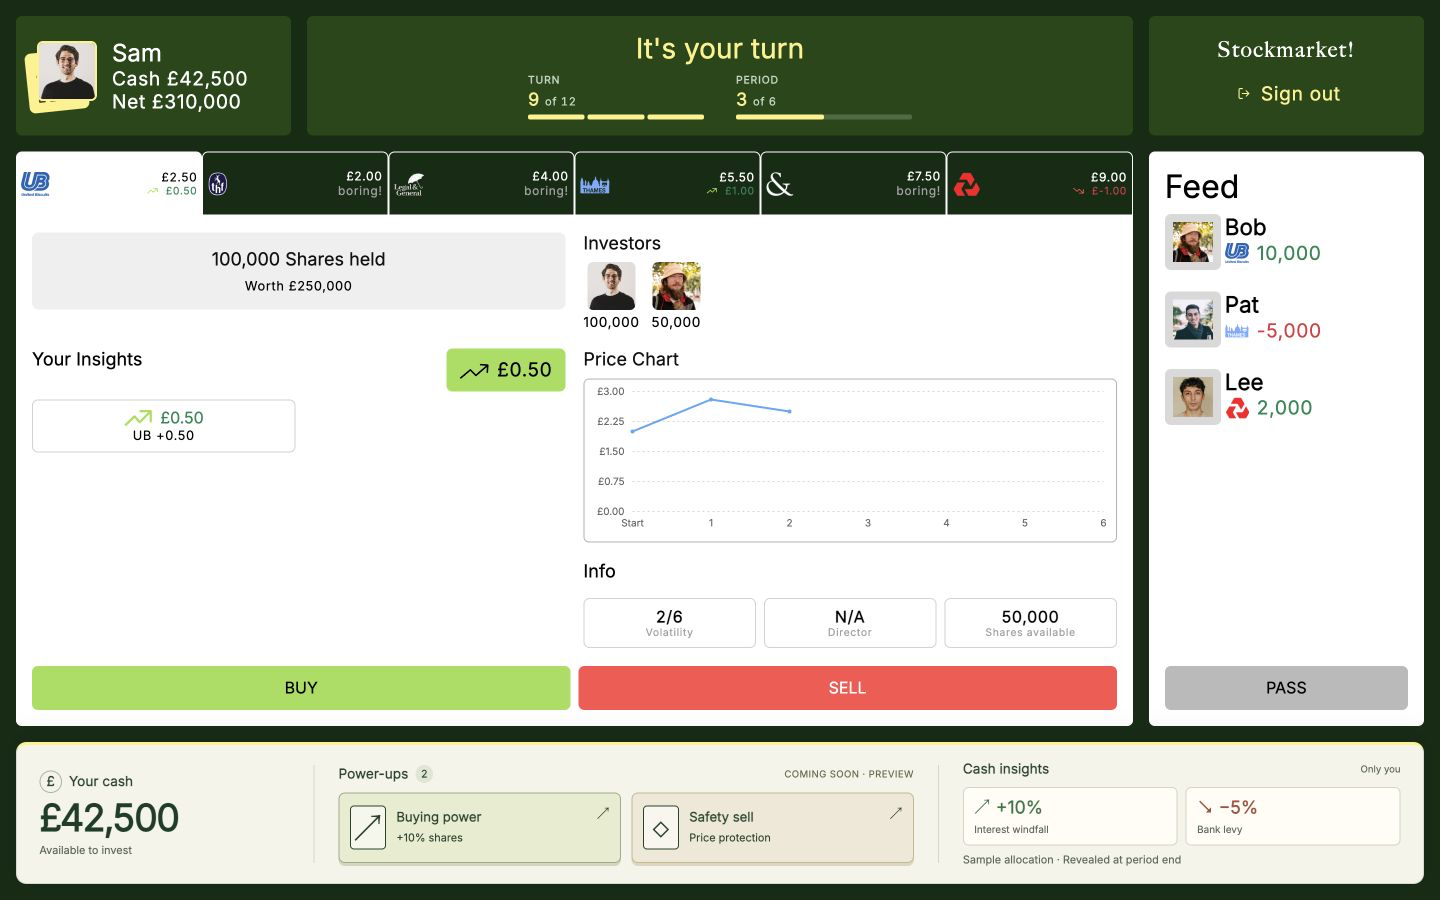
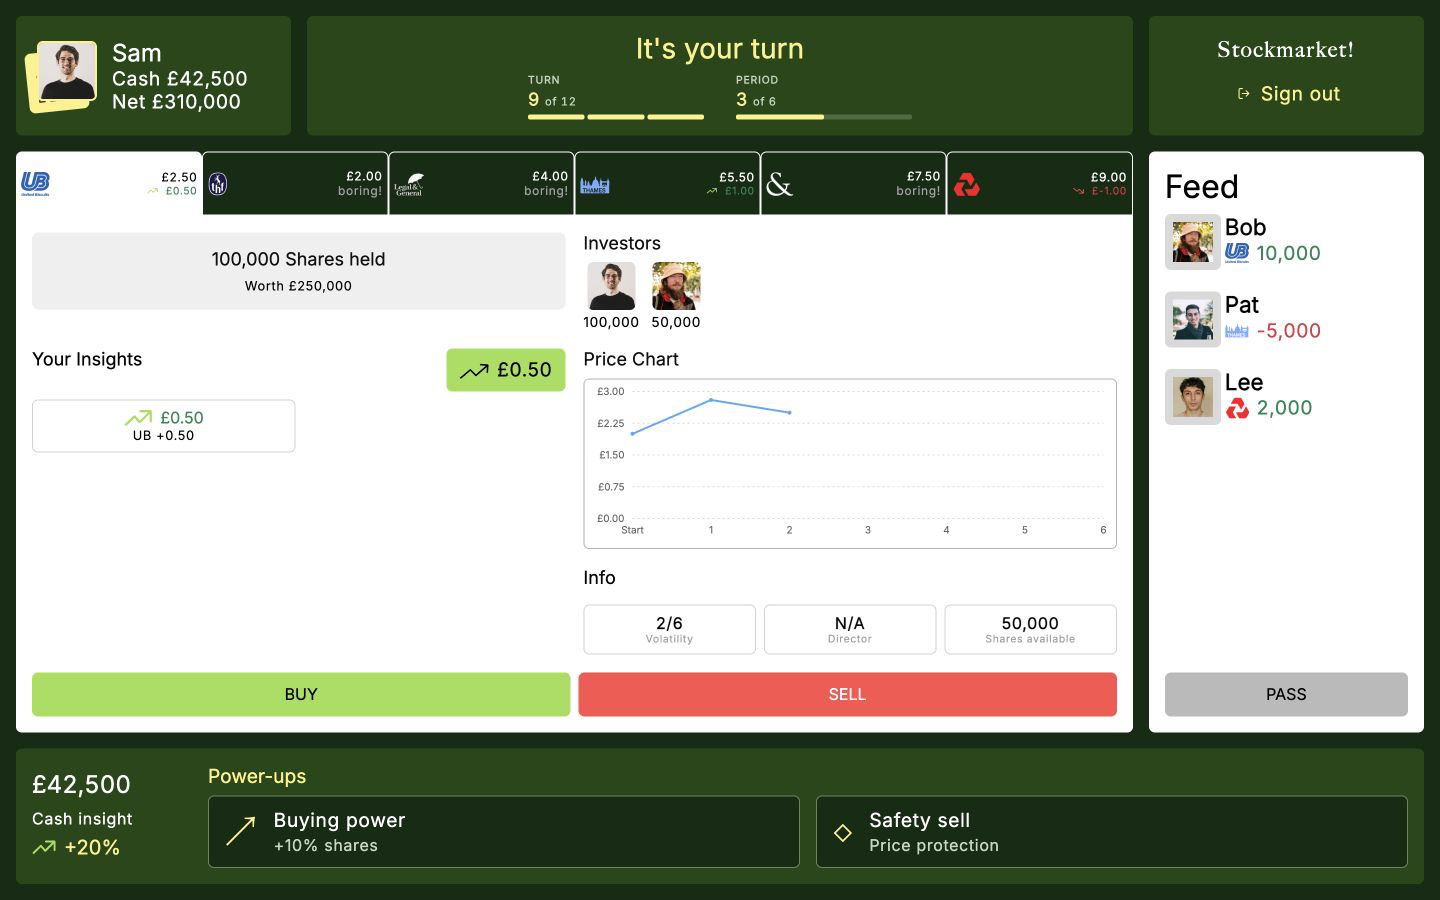
Match the player dock to the board theme and simplify cash insights

Changed region(s): [[0.0, 0.6533, 1.0, 0.9956], [0.4062, 0.4667, 0.7812, 0.6533], [0.4688, 0.4356, 0.5312, 0.4667]]

diff --git a/src/player-dock.css b/src/player-dock.css
@@ -1,5 +1,4 @@
-/* Reserve the last grid row so the dock stays at the viewport edge without
-   covering stock details, trade controls, or the desktop activity feed. */
+/* Reserve a bottom row so the dock never covers the board's trade controls. */
 #game-grid:has(> #player-dock) {
     grid-template-rows: auto minmax(0, 1fr) auto;
     grid-template-areas: "profile now-playing header" "content content feed" "dock dock dock";
@@ -7,93 +6,53 @@
 #player-dock {
     grid-area: dock;
     display: grid;
-    grid-template-columns: minmax(165px, 0.8fr) minmax(340px, 2fr) minmax(260px, 1.4fr);
+    grid-template-columns: 10rem minmax(0, 1fr);
     align-items: center;
-    gap: 1.5rem;
-    padding: 1rem 1.4rem;
-    border: 1px solid #d5dbc6;
-    border-top: 3px solid #fff284;
-    border-radius: 0.65rem;
-    background: #f5f4e9;
-    color: #183e25;
-    box-shadow: 0 -5px 24px #081c1026;
+    gap: 1rem;
+    color: white;
 }
 #player-dock > * { min-width: 0; }
-#player-dock span, #player-dock p { font-size: inherit; line-height: inherit; letter-spacing: normal; }
-#player-dock .dock-eyebrow, #player-dock .dock-section-heading h2 {
-    display: flex;
-    align-items: center;
-    gap: 0.45rem;
-    margin: 0;
-    color: #24432b;
-    font-size: 0.85rem;
-    font-weight: 600;
-}
-.dock-cash-symbol { display: grid; place-items: center; width: 1.4rem; height: 1.4rem; border: 1px solid #a9b69b; border-radius: 50%; }
-.dock-balance { display: block; margin: 0.2rem 0; font-size: clamp(1.7rem, 2.6vw, 2.5rem); line-height: 1.15; letter-spacing: -0.06em; font-variant-numeric: tabular-nums; }
-#player-dock .dock-caption { margin: 0; color: #5c6957; font-size: 0.68rem; line-height: 1.4; }
-.dock-powers { padding-inline: 1.5rem; border-inline: 1px solid #d2d8c5; }
-.dock-section-heading { display: flex; align-items: center; justify-content: space-between; gap: 0.4rem; margin-bottom: 0.6rem; }
-#player-dock .dock-count { display: grid; place-items: center; width: 1.1rem; height: 1.1rem; background: #dfe6d4; border-radius: 50%; font-size: 0.65rem; }
-#player-dock .dock-preview, .dock-power-detail .dock-preview { color: #626b49; font-size: 0.6rem; letter-spacing: 0.04em; text-transform: uppercase; }
-.dock-power-cards { display: grid; grid-template-columns: repeat(2, minmax(0, 1fr)); gap: 0.65rem; }
-.dock-power-card { display: flex; align-items: center; text-align: left; gap: 0.65rem; min-height: 4.4rem; padding: 0.65rem; border: 1px solid #9dab87; border-radius: 0.4rem; background: #e7eccd; color: #24432b; box-shadow: 0 3px 0 #d0d7ba; transition: transform 150ms, background 150ms; }
-.dock-power-sell { background: #eee8d5; border-color: #c4b88f; box-shadow: 0 3px 0 #ded6bd; }
-.dock-power-card:hover { transform: translateY(-2px); background: #f7f0b1; }
-.dock-power-card:focus-visible { outline: 3px solid #38643d; outline-offset: 3px; }
-#player-dock .dock-power-icon { display: grid; place-items: center; flex-shrink: 0; width: 2.25rem; height: 2.75rem; border: 1px solid currentColor; border-radius: 0.25rem; font-size: 1.8rem; background: #fff9; }
-.dock-power-copy { display: flex; flex: 1; flex-direction: column; gap: 0.3rem; }
-.dock-power-copy strong { font-size: 0.82rem; line-height: 1.2; }
-#player-dock .dock-power-copy > span { font-size: 0.68rem; }
-#player-dock .dock-card-arrow { align-self: flex-start; font-size: 0.8rem; }
-#player-dock .dock-private { color: #5c6957; font-size: 0.6rem; }
-.dock-insight-cards { display: grid; grid-template-columns: repeat(2, minmax(0, 1fr)); gap: 0.5rem; margin-bottom: 0.4rem; }
-.dock-cash-insight { display: grid; grid-template-columns: auto 1fr; align-items: center; column-gap: 0.35rem; row-gap: 0.2rem; padding: 0.45rem 0.65rem; border: 1px solid #ced6c0; border-radius: 0.35rem; background: #fffdf5; }
-.dock-cash-insight strong { font-size: 1.1rem; line-height: 1; }
-#player-dock .dock-cash-insight > span:last-child { grid-column: 1 / -1; font-size: 0.62rem; color: #5c6957; }
-.dock-insight-up { color: #347346; }
-.dock-insight-down { color: #a3523d; }
+#player-dock .dock-balance { display: block; margin-bottom: 0.5rem; font-size: 1.5rem; font-weight: 500; line-height: 1.2; font-variant-numeric: tabular-nums; }
+.dock-cash-insight { display: inline-flex; flex-direction: column; gap: 0.25rem; }
+#player-dock .dock-cash-insight > span { font-size: 1rem; }
+.dock-cash-insight strong { display: flex; align-items: center; gap: 0.5rem; font-size: 1.25rem; font-weight: 500; color: #fff284; }
+.dock-cash-insight img { width: 1.5rem; height: 1rem; object-fit: contain; }
+#player-dock .dock-powers h2 { margin: 0 0 0.5rem; font-size: 1.2rem; font-weight: 500; color: #fff284; }
+.dock-power-cards { display: grid; grid-template-columns: repeat(2, minmax(0, 1fr)); gap: 1rem; }
+.dock-power-card { display: flex; align-items: center; gap: 1rem; min-height: 4.5rem; padding: 0.75rem 1rem; border: 1px solid #70845b; border-radius: 0.375rem; background: #0f2c12; color: white; text-align: left; }
+.dock-power-card:hover { background: #304f24; border-color: #fff284; }
+.dock-power-card:focus-visible { outline: 2px solid #fff284; outline-offset: 3px; }
+#player-dock .dock-power-icon { flex-shrink: 0; color: #fff284; font-size: 2rem; line-height: 1; }
+.dock-power-copy { display: flex; flex-direction: column; gap: 0.25rem; }
+.dock-power-copy strong { font-size: 1.2rem; font-weight: 500; line-height: 1.2; }
+#player-dock .dock-power-copy > span { font-size: 1rem; color: #c6d7c3; }
 .dock-power-detail { display: grid; gap: 1rem; }
 .dock-power-detail h3 { color: inherit; margin: 0; }
+.dock-power-detail .dock-preview, .dock-power-detail .dock-caption { font-size: 1rem; }
 @media (max-width: 991.98px) {
     #game-grid:has(> #player-dock) { grid-template-areas: "profile now-playing" "content content" "dock dock"; }
-    #player-dock { grid-template-columns: minmax(110px, 0.8fr) minmax(0, 1.5fr); gap: 0.65rem 1rem; padding: 0.7rem 0.85rem max(0.7rem, env(safe-area-inset-bottom)); }
-    .dock-cash { grid-column: 1; grid-row: 1; }
-    .dock-insights { grid-column: 2; grid-row: 1; }
-    .dock-powers { grid-column: 1 / -1; grid-row: 2; border: 0; border-top: 1px solid #d2d8c5; padding: 0.6rem 0 0; }
-    .dock-balance { font-size: 1.8rem; }
-    .dock-section-heading { margin-bottom: 0.35rem; }
-    .dock-power-card { min-height: 3.25rem; padding: 0.45rem 0.55rem; gap: 0.5rem; }
-    #player-dock .dock-power-icon { width: 1.7rem; height: 2.1rem; font-size: 1.4rem; }
-    .dock-power-copy { gap: 0.15rem; }
-    .dock-power-copy strong { font-size: 0.75rem; }
-    #player-dock .dock-power-copy > span { font-size: 0.6rem; }
-    .dock-cash-insight { padding: 0.3rem 0.4rem; gap: 0.2rem; }
-    .dock-cash-insight strong { font-size: 0.95rem; }
-    #player-dock .dock-cash-insight > span:last-child { font-size: 0.54rem; }
-    #player-dock .dock-caption { font-size: 0.56rem; }
-    #player-dock .dock-eyebrow, #player-dock .dock-section-heading h2 { font-size: 0.73rem; }
 }
-@media (max-height: 500px) and (max-width: 991.98px) {
-    #player-dock { grid-template-columns: 0.7fr 1.5fr 1fr; gap: 0.75rem; padding: 0.5rem 0.75rem; }
-    .dock-powers, .dock-insights, .dock-cash { grid-column: auto; grid-row: auto; }
-    .dock-powers { border: 0; padding: 0; }
-    #player-dock .dock-preview, #player-dock .dock-private, #player-dock .dock-cash-insight > span:last-child { display: none; }
+@media (max-width: 575.98px) {
+    #player-dock { grid-template-columns: 6.75rem minmax(0, 1fr); gap: 0.75rem; padding: 0.75rem !important; padding-bottom: max(0.75rem, env(safe-area-inset-bottom)) !important; }
+    #player-dock .dock-balance { font-size: 1.25rem; }
+    #player-dock .dock-cash-insight > span { font-size: 0.9rem; }
+    .dock-cash-insight strong { font-size: 1.1rem; }
+    #player-dock .dock-powers h2 { font-size: 1rem; }
+    .dock-power-cards { gap: 0.5rem; }
+    .dock-power-card { flex-direction: column; justify-content: center; gap: 0.4rem; padding: 0.5rem 0.35rem; min-height: 5rem; text-align: center; }
+    #player-dock .dock-power-icon { font-size: 1.5rem; }
+    .dock-power-copy strong { font-size: 1rem; }
+    #player-dock .dock-power-copy > span { display: none; }
 }
-@media (max-width: 359px) {
-    #player-dock { grid-template-columns: minmax(100px, 0.85fr) minmax(0, 1.3fr); gap: 0.5rem; padding: 0.6rem; }
-    .dock-balance { font-size: 1.5rem; }
-    .dock-power-cards { gap: 0.45rem; }
-    .dock-power-card { gap: 0.35rem; padding: 0.4rem; }
-    #player-dock .dock-power-icon { width: 1.4rem; height: 1.8rem; font-size: 1.1rem; }
-    #player-dock .dock-card-arrow { display: none; }
-    .dock-power-copy strong { font-size: 0.68rem; }
-    #player-dock .dock-power-copy > span { font-size: 0.55rem; }
-    #player-dock .dock-cash-insight > span:last-child { font-size: 0.5rem; }
-    #player-dock .dock-insights > .dock-caption { font-size: 0.5rem; }
-    #player-dock .dock-preview { font-size: 0.5rem; }
+@media (max-height: 500px) {
+    #player-dock { padding: 0.5rem 0.75rem !important; }
+    #player-dock .dock-balance { margin-bottom: 0.25rem; }
+    .dock-cash-insight { flex-direction: row; align-items: center; gap: 0.5rem; }
+    #player-dock .dock-cash-insight > span { font-size: 0.85rem; }
+    .dock-cash-insight strong { font-size: 1rem; }
+    .dock-power-card { min-height: 3rem; padding-block: 0.4rem; }
 }
-/* The board owns viewport scrolling; stock/portfolio panels own detail scrolling. */
+/* Details scroll within the middle panel while the dock remains in view. */
 body:has(#player-dock) { overflow: hidden; }
 @media (max-height: 650px) {
     #game-grid:has(> #player-dock) #game-stock-info { grid-template-rows: minmax(0, 1fr) auto; grid-template-areas: "body body" "actions actions"; }

diff --git a/src/PlayerDock.tsx b/src/PlayerDock.tsx
@@ -11,27 +11,23 @@ const powerUps = [
 export function PlayerDock({ board }: { board: Board })
 {
     return (
-        <section id="player-dock" aria-label="Your cash, power-ups and cash insights">
+        <section id="player-dock" className="card card-green rounded p-3" style={{ backgroundColor: "var(--bs-card-bg)" }} aria-label="Your cash, power-ups and cash insights">
             <div className="dock-cash">
-                <div className="dock-eyebrow">
-                    <span className="dock-cash-symbol" aria-hidden="true">£</span>
-                    {" "}
-                    Your cash
-                </div>
                 <strong className="dock-balance">
                     £
                     {money(board.player.cash)}
                 </strong>
-                <p className="dock-caption">Available to invest</p>
+                <div className="dock-cash-insight">
+                    <span>Cash insight</span>
+                    <strong>
+                        <img src="/static/imgs/icons/stock_up.svg" alt="Cash rising" />
+                        {" "}
+                        +20%
+                    </strong>
+                </div>
             </div>
             <div className="dock-powers">
-                <div className="dock-section-heading">
-                    <h2>
-                        Power-ups
-                        <span className="dock-count">2</span>
-                    </h2>
-                    <span className="dock-preview">Coming soon · Preview</span>
-                </div>
+                <h2>Power-ups</h2>
                 <div className="dock-power-cards">
                     {powerUps.map((power) => (
                         <button key={power.kind} type="button" className={`dock-power-card dock-power-${power.kind}`} data-bs-toggle="modal" data-bs-target={`#power-preview-${power.kind}`} aria-label={`Preview ${power.name}: ${power.effect}`}>
@@ -40,29 +36,9 @@ export function PlayerDock({ board }: { board: Board })
                                 <strong>{power.name}</strong>
                                 <span>{power.effect}</span>
                             </span>
-                            <span className="dock-card-arrow" aria-hidden="true">↗</span>
                         </button>
                     ))}
                 </div>
-            </div>
-            <div className="dock-insights">
-                <div className="dock-section-heading">
-                    <h2>Cash insights</h2>
-                    <span className="dock-private">Only you</span>
-                </div>
-                <div className="dock-insight-cards">
-                    <div className="dock-cash-insight dock-insight-up">
-                        <span aria-hidden="true">↗</span>
-                        <strong>+10%</strong>
-                        <span>Interest windfall</span>
-                    </div>
-                    <div className="dock-cash-insight dock-insight-down">
-                        <span aria-hidden="true">↘</span>
-                        <strong>−5%</strong>
-                        <span>Bank levy</span>
-                    </div>
-                </div>
-                <p className="dock-caption">Sample allocation · Revealed at period end</p>
             </div>
             {powerUps.map((power) => (
                 <Modal key={power.kind} id={`power-preview-${power.kind}`} title={power.name}>

diff --git a/experiments/README.md b/experiments/README.md
@@ -3,12 +3,12 @@
 Branch: `poc/player-cash-dock`.
 
 The playing board now reserves a full-width bottom row for the current player's
-cash, two example power-up cards, and example positive/negative cash insights.
+cash, two example power-up cards, and one compact cash insight beneath the balance.
 Stock and portfolio details scroll within the shorter middle panel. The dock
 and trade buttons stay visible. The desktop feed ends above the dock.
 
 Cash comes from `board.player.cash`. Power-ups and cash insights are static dummy
-data, labelled as previews/sample allocations. Opening a power-up explains its
+data. The cash insight is a single sample +20% value. Power-up dialogs explain that they are previews. Opening a power-up explains its
 proposed ability; nothing is activated, persisted, or applied to a trade. No
 backend/schema changes or random assignment logic are included.
 
